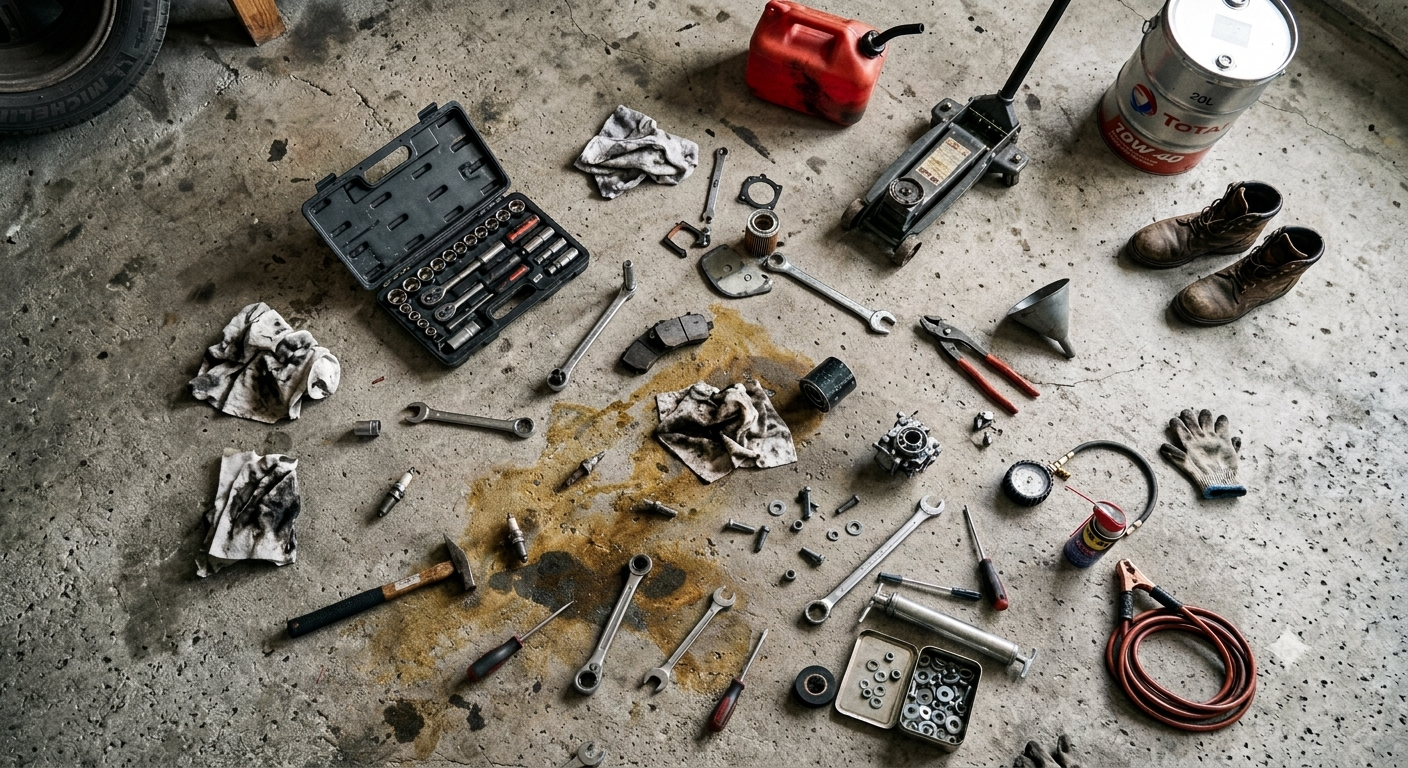
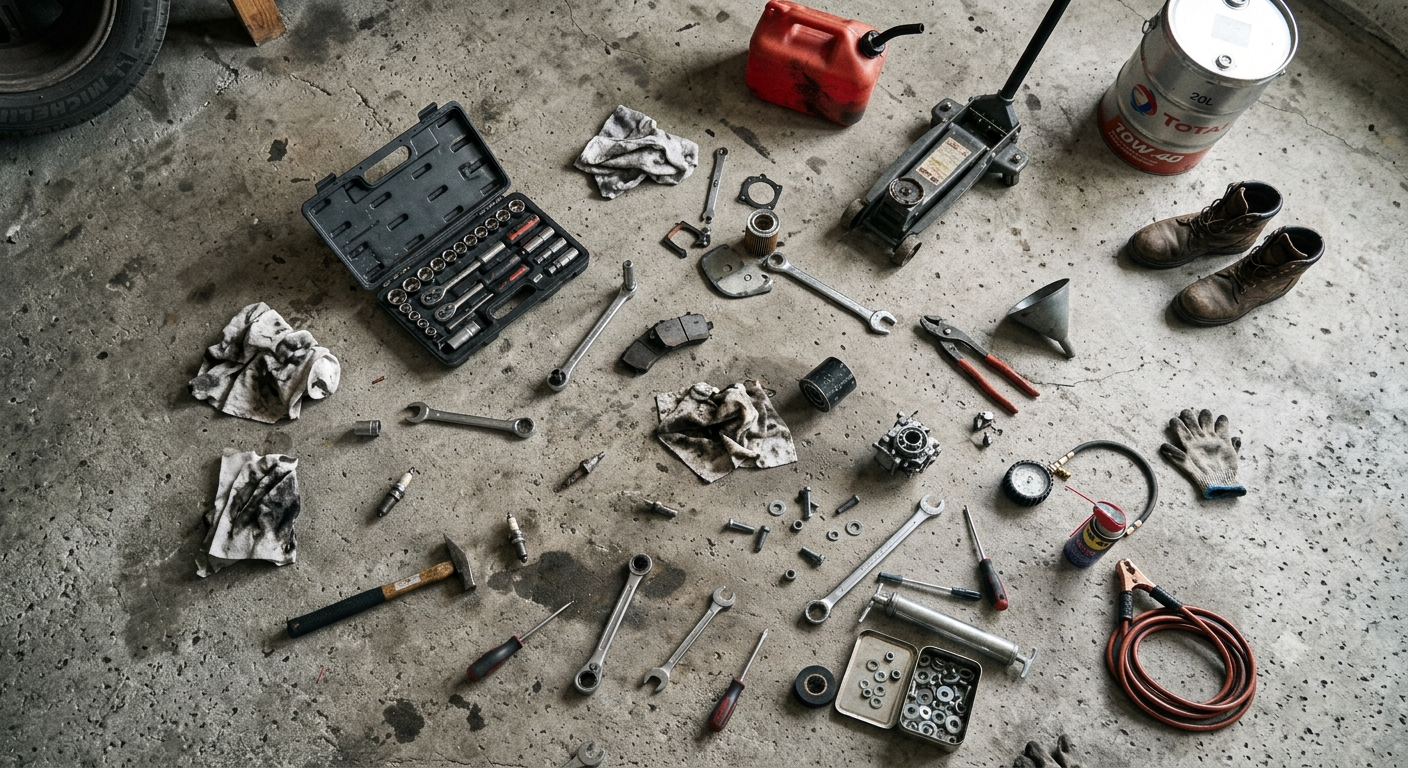
fundo

diff --git a/src/scenes/GameScene.js b/src/scenes/GameScene.js
@@ -30,13 +30,18 @@ class GameScene extends Phaser.Scene {
         this.FORCA_MAXIMA = 900;
         this.DISTANCIA_MAXIMA = 140;
         this.VELOCIDADE_MINIMA_PARADA = 5;
+        this.PENALIDADE_RETROCESSO_PX = 900; // sair da pista custa 900px de volta na volta
 
         // ---------- mundo grande + câmera acompanhando quem está jogando ----------
         this.physics.world.setBounds(0, 0, MUNDO_LARGURA, MUNDO_ALTURA);
         this.cameras.main.setBounds(0, 0, MUNDO_LARGURA, MUNDO_ALTURA);
 
-        this.add.image(MUNDO_LARGURA / 2, MUNDO_ALTURA / 2, 'fundoPista')
-            .setDisplaySize(MUNDO_LARGURA, MUNDO_ALTURA);
+        // a foto tem só 1408x768 — qualquer ampliação borra ela. Mosaico em escala 1:1
+        // (tamanho real, sem ampliar nada) pra manter nítida; ela só se repete mais vezes
+        // pelo mundo (a maior parte da área de jogo já é coberta pela cor sólida da pista).
+        this.add.tileSprite(0, 0, MUNDO_LARGURA, MUNDO_ALTURA, 'fundoPista')
+            .setOrigin(0, 0)
+            .setTileScale(1, 1);
         desenharPista(this, this.pista);
         desenharZonaAgua(this, this.pista, this.zonaAgua);
         desenharZonaAreia(this, this.pista, this.zonaAreia);
@@ -385,13 +390,32 @@ class GameScene extends Phaser.Scene {
             // deixa os fortes atravessarem — nunca é uma parede rígida
             CollisionManager.aplicarBordaPista(t, status);
 
+            if (!status.dentro && !t.foraDaPista) {
+                // acabou de sair da pista agora mesmo: penalidade — some no ponto de saída e
+                // reaparece centralizada na faixa, PENALIDADE_RETROCESSO_PX pra trás (na volta),
+                // parada. Não é gradual nem "escorregando pra fora"; é o castigo de ter saído.
+                SomFX.foraDaPista();
+                this.cameras.main.shake(160, 0.01);
+
+                const sPunicao = status.s - this.PENALIDADE_RETROCESSO_PX;
+                const posPenalidade = this.pista.pontoNaFaixa(sPunicao, 0.5);
+                const amostraPunicao = this.pista.amostraEmS(sPunicao);
+
+                t.body.setVelocity(0, 0);
+                t.x = posPenalidade.x;
+                t.y = posPenalidade.y;
+                t.sAnterior = amostraPunicao.s;
+                t.progressoAcumulado -= this.PENALIDADE_RETROCESSO_PX;
+                t.foraDaPista = false; // já está de volta na pista, centralizada
+
+                return; // já tratamos essa tampinha por completo neste quadro
+            }
+
             if (!status.dentro) {
-                // fora da pista de verdade: chão irregular (grama/terra), sem teleporte —
-                // só a consequência natural de estar fora do cimento, perdendo velocidade
-                // mais rápido e sem ganhar progresso na volta enquanto estiver lá fora.
+                // ainda fora (não é o quadro em que saiu — isso já foi punido acima): chão
+                // irregular (grama/terra), perdendo velocidade mais rápido enquanto não volta
                 t.body.velocity.x *= 0.965;
                 t.body.velocity.y *= 0.965;
-                t.foraDaPista = true;
             } else {
                 if (t.foraDaPista) {
                     // acabou de voltar pra pista: resincroniza sem contar o salto como progresso

diff --git a/src/Physics/CollisionManager.js b/src/Physics/CollisionManager.js
@@ -19,20 +19,23 @@ const CollisionManager = {
         const rvx = b.body.velocity.x - a.body.velocity.x;
         const rvy = b.body.velocity.y - a.body.velocity.y;
         const velNormal = rvx * nx + rvy * ny; // >0 = já se separando (b se afasta de a)
+        const velRelTotal = Math.hypot(rvx, rvy); // "energia" do impacto, sem depender do ângulo exato
 
-        // O Arcade já separou as duas e distribuiu velocidade entre elas antes deste callback
-        // rodar — o problema é que, com bounce moderado, essa separação sozinha fica fraca
-        // demais pra "arrancar" a tampinha atingida da pista. Em vez de só reforçar nos raros
-        // casos em que ainda estariam se aproximando (o que quase nunca acontece depois do
-        // Arcade já ter resolvido a sobreposição), a gente AMPLIFICA a separação que já existe
-        // — sempre, de forma consistente — pra a batida ficar decisiva de verdade.
-        if (velNormal > 0) {
-            const BOOST = 1.9; // separação final = separação original × BOOST
-            const extra = velNormal * (BOOST - 1) / 2;
-            a.body.velocity.x -= nx * extra;
-            a.body.velocity.y -= ny * extra;
-            b.body.velocity.x += nx * extra;
-            b.body.velocity.y += ny * extra;
+        if (velRelTotal > 20) {
+            // Duas fontes de empurrão, e usamos a MAIOR das duas:
+            // 1) amplifica a separação que o Arcade já calculou (bom pra batidas quase de frente)
+            // 2) um empurrão mínimo baseado na velocidade relativa TOTAL do impacto (garante que
+            //    batidas de raspão — onde a componente ao longo da normal é pequena mas a
+            //    velocidade real do choque é alta — também derrubem a tampinha atingida)
+            const BOOST = 1.9;
+            const porSeparacao = Math.max(velNormal, 0) * (BOOST - 1);
+            const porEnergia = velRelTotal * 0.85;
+            const impulso = Math.max(porSeparacao, porEnergia) / 2;
+
+            a.body.velocity.x -= nx * impulso;
+            a.body.velocity.y -= ny * impulso;
+            b.body.velocity.x += nx * impulso;
+            b.body.velocity.y += ny * impulso;
         }
 
         // giro visual (cosmético, não mexe na física): impacto fora do centro — a componente

diff --git a/src/objects/Track.js b/src/objects/Track.js
@@ -11,9 +11,9 @@
 const MUNDO_LARGURA = 3000;
 const MUNDO_ALTURA = 2400;
 
-const LARGURA_PISTA = 300;         // uniforme em toda a pista (~30% maior que a versão anterior)
+const LARGURA_PISTA = 200;         // uniforme em toda a pista (~30% maior que a versão anterior)
 const RESOLUCAO_LUT = 900;         // amostras ao redor da volta inteira
-const COR_PISTA = 0x97856a;        // tom parecido com o chão da foto de fundo, pra não conflitar
+const COR_PISTA = 0x333333;        // tom parecido com o chão da foto de fundo, pra não conflitar
 
 function pontoNaElipse(cx, cy, raioX, raioY, angulo) {
     return {
